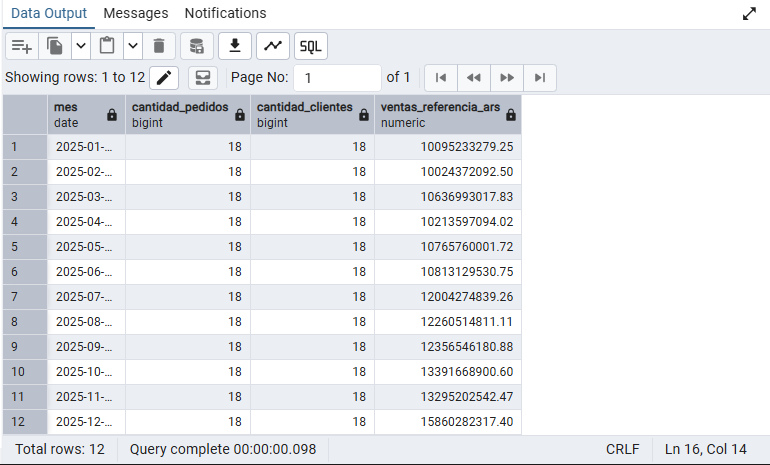
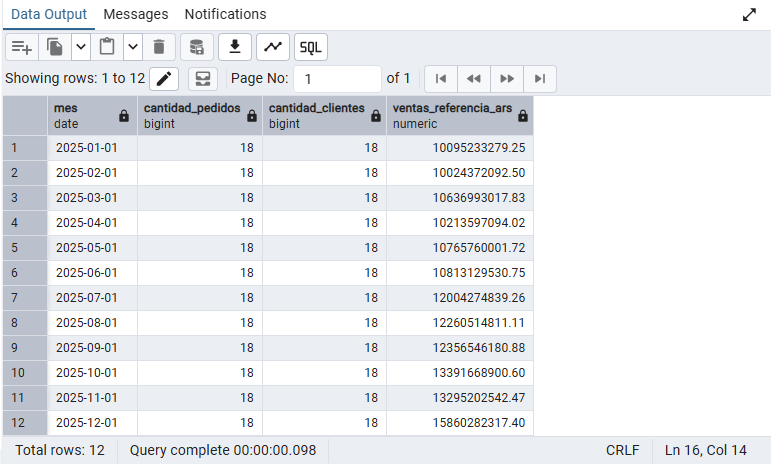
Documentar productos menos vendidos y preparar ranking por categoría

diff --git a/PROJECT_STATE.md b/PROJECT_STATE.md
@@ -98,7 +98,7 @@ Se conservan PK/FK y cantidades/precios positivos. DATE para fecha/período; NUM
 | 1. Problema | Reformulado y aprobado: mayorista ficticio y establecimientos clientes |
 | 2. Preparación/carga | Generador y SQL actualizados; carga técnica comprobada; conteos, fechas, pedidos mensuales, trazabilidad y tipos confirmados mediante capturas locales (23/09/2026) |
 | 3. Limpieza | 8 precios nulos y 3 duplicados; limpieza y conciliación confirmadas en capturas locales (23/09/2026) |
-| 4. Análisis | Top 5 y evolución mensual ejecutados y documentados; consulta de productos preparada |
+| 4. Análisis | Top 5, evolución mensual y productos ejecutados y documentados; ranking por categoría preparado |
 | 5. Hallazgos | Pendientes de revisión conjunta |
 
 Entrada: 1.010 filas, 3 repeticiones y 8 precios nulos. Salida: 1.007, cero repeticiones y cero nulos. DISTINCT elimina copias; COALESCE recupera el precio de la misma fuente por el diseño del caso. Los nulos y duplicados son sintéticos. Fechas completas y válidas: no imputar valores si no faltan.
@@ -124,8 +124,8 @@ La publicación de nombres/CUIT de operadores públicos fue autorizada el 21/09/
 
 1. Cinco clientes con mayor gasto de referencia: ejecutado por el usuario, captura publicada e interpretación descriptiva documentada en README.
 2. Evolución mensual de importes: ejecutada por el usuario; captura y doce importes documentados, con interpretación nominal.
-3. Tres productos líquidos menos vendidos, GNC aparte: consulta preparada; pendiente ejecución, captura e interpretación.
-4. Ranking de pedidos por categoría con RANK(): pendiente.
+3. Tres productos líquidos menos vendidos: ejecutada; captura y resultados documentados con interpretación y límites.
+4. Ranking de pedidos por categoría con RANK(): consulta preparada; pendiente ejecución y captura de posiciones 1 a 3 por categoría.
 5. Concentración del top 5: pendiente.
 6. Precio ponderado por producto/mes: pendiente.
 
@@ -151,7 +151,11 @@ El usuario aportó la captura del top 5, publicada en imagenes/top_5_clientes.pn
 
 Evolución mensual confirmada mediante captura del usuario (imagenes/ventas_mensuales.png): 12 filas, 18 pedidos y 18 clientes cada mes. Importes enero-diciembre: 10095233279.25; 10024372092.50; 10636993017.83; 10213597094.02; 10765760001.72; 10813129530.75; 12004274839.26; 12260514811.11; 12356546180.88; 13391668900.60; 13295202542.47; 15860282317.40 ARS. Suma comprobada con Decimal: 141717574607.79 ARS. Máximo diciembre, mínimo febrero, variación diciembre/enero +57.11% nominal. No atribuir el incremento a inflación, volumen o estacionalidad sin análisis que lo sostenga.
 
-Siguiente tarea: ejecutar la tercera consulta de analisis.sql, recibir la captura de los tres combustibles líquidos menos vendidos por litros e interpretar sus resultados. Filtra unidad_venta='L' y pedidos concretados; GNC fuera del ranking por unidad distinta. La consulta se entrega preparada, no como ejecución confirmada. No anticipar resultados.
+La captura mensual se reemplazó por la versión con fechas completas en el mismo archivo imagenes/ventas_mensuales.png. Los importes coinciden y no cambian la interpretación.
+
+La tercera consulta quedó confirmada en imagenes/productos_menos_vendidos.png: P004 Kerosene 495530 L; P005 Nafta común 3405860 L; P006 Nafta premium 11885870 L. El nombre completo de P006 procede del catálogo de productos ya leído. El README documenta menor volumen, sin equipararlo a baja rentabilidad ni atribuir causas.
+
+Siguiente tarea: ejecutar la cuarta consulta de analisis.sql. Agrupa por pedido/categoría, calcula el importe exacto y aplica RANK PARTITION BY categoria ORDER BY importe DESC; muestra posiciones <=3, incluyendo empates. Solo redondea al presentar. Un pedido puede aparecer en más de una categoría con sus importes parciales; GNC participa por importe en ARS, sin mezclar volúmenes. La consulta está preparada, pendiente de ejecución del usuario. Pedir captura de todas las filas y columnas (pueden ser varias imágenes). No anticipar ganadores.
 
 Preferencia explícita: al documentar una captura, incluir en la respuesta el siguiente paso concreto y su consulta; no responder solamente confirmando la actualización. Continuar de una consulta a la vez.
 

diff --git a/README.md b/README.md
@@ -356,7 +356,69 @@ ORDER BY litros_vendidos ASC, pr.id_producto
 LIMIT 3;
 ```
 
-La consulta está preparada; aún no incorporo resultados ni conclusiones sobre los productos de menor volumen.
+![Tres combustibles líquidos con menor volumen vendido](imagenes/productos_menos_vendidos.png)
+
+| Producto | Categoría | Litros vendidos |
+| --- | --- | ---: |
+| Kerosene | Queroseno | 495.530 |
+| Nafta (común) hasta 92 Ron | Nafta | 3.405.860 |
+| Nafta (premium) de más de 95 Ron | Nafta | 11.885.870 |
+
+Identifico al queroseno como el producto de menor volumen de la cartera, seguido por la nafta común y la nafta premium. Comparo litros acumulados durante 2025, por lo que este orden no representa un ranking de importes ni de rentabilidad.
+
+Utilizaría este resultado para revisar la cobertura comercial de estos productos: cuántos establecimientos los compran y durante cuántos meses. Un volumen bajo puede estar relacionado con su presencia en menos establecimientos o períodos; esta consulta no demuestra por sí sola una menor demanda entre quienes los ofrecen. No recomendaría retirar un producto sin conocer esa cobertura, sus costos y su función en la oferta.
+
+### 4.4. Ranking de pedidos por categoría
+
+Calculo el importe de cada pedido dentro de cada categoría y utilizo `RANK()` para ordenar los pedidos de mayor a menor importe. Muestro las posiciones uno a tres por categoría para comparar las operaciones de mayor valor.
+
+La unidad de análisis es **pedido y categoría**: si un pedido incluye nafta y gasoil, aparece en ambos rankings con el importe correspondiente a cada categoría. Comparo importes en ARS, por lo que incluyo GNC sin sumar sus m³ a los litros.
+
+```sql
+WITH importes_por_categoria AS (
+    SELECT
+        pr.categoria,
+        p.id_pedido,
+        p.fecha,
+        c.id_cliente,
+        c.nombre AS cliente,
+        SUM(d.cantidad * d.precio_unitario_ars) AS importe_categoria
+    FROM combustibles.pedidos AS p
+    JOIN combustibles.clientes AS c
+        ON c.id_cliente = p.id_cliente
+    JOIN combustibles.detalle_pedido AS d
+        ON d.id_pedido = p.id_pedido
+    JOIN combustibles.productos AS pr
+        ON pr.id_producto = d.id_producto
+    WHERE p.estado = 'Concretado'
+    GROUP BY pr.categoria, p.id_pedido, p.fecha, c.id_cliente, c.nombre
+),
+ranking AS (
+    SELECT
+        *,
+        RANK() OVER (
+            PARTITION BY categoria
+            ORDER BY importe_categoria DESC
+        ) AS posicion
+    FROM importes_por_categoria
+)
+SELECT
+    categoria,
+    posicion,
+    id_pedido,
+    fecha,
+    id_cliente,
+    cliente,
+    ROUND(importe_categoria, 2) AS importe_referencia_ars
+FROM ranking
+WHERE posicion <= 3
+ORDER BY categoria, posicion, id_pedido;
+```
+
+Clasifico por el importe sin redondear y redondeo únicamente para mostrarlo. Los empates comparten posición y generan saltos en la siguiente; el filtro puede devolver más de tres filas por categoría si hay empates. El identificador del pedido ordena la presentación sin romper esos empates.
+
+La consulta está preparada; todavía no incorporo su resultado ni conclusiones sobre los pedidos destacados.
+
 
 
 ## 5. Límites de interpretación

diff --git a/datos/README.md b/datos/README.md
@@ -102,4 +102,4 @@ Las instrucciones de carga desde cero están en el [README principal](../README.
 
 ## Alcance de la entrega
 
-El modelo está cargado y validado. Documento el top 5 y la evolución mensual con sus resultados e interpretaciones en el README principal. Incluyo una tercera consulta para los combustibles líquidos menos vendidos, cuyo resultado aún no incorporo. Las tres consultas restantes y las conclusiones globales están en desarrollo.
+El modelo está cargado y validado. Documento el top 5, la evolución mensual y los combustibles líquidos menos vendidos con sus resultados e interpretaciones en el README principal. Incluyo una cuarta consulta para el ranking de pedidos por categoría, cuyo resultado aún no incorporo. Las dos consultas restantes y las conclusiones globales están en desarrollo.
